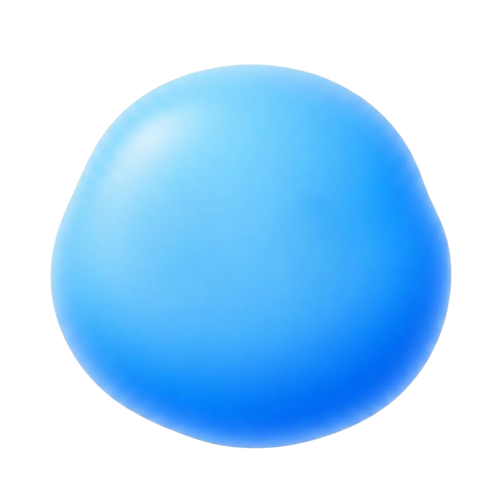
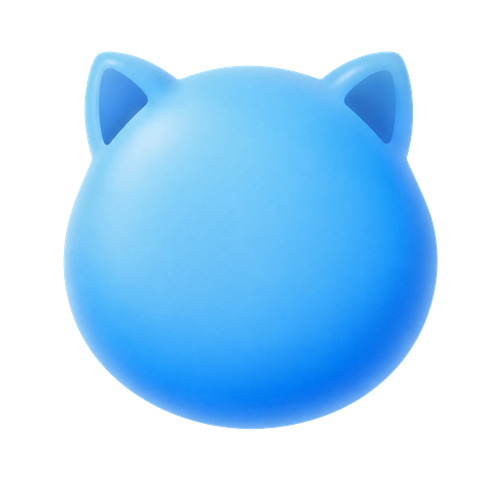
feat(web): mascota con orejas de gato + ojos re-alineados
Sustituye el blob por la nueva mascota (con orejas), recortada a fondo
transparente (fuera el fondo blanco y la sombra, que iba contra el estilo
sin-sombras). Re-mide los centros de los ojos y el monóculo para la nueva cara:
las orejas ocupan la parte de arriba, así que la cara baja y los ojos van
centrados (EYE_Y 54→55, x 33/58.5 → 37.25/62.75, simétricos) manteniendo el
tamaño y la separación de pupila de antes. Monóculo reubicado sobre el ojo derecho.

diff --git a/apps/web/src/branding/CurioLogo.tsx b/apps/web/src/branding/CurioLogo.tsx
@@ -31,10 +31,12 @@ interface CurioLogoProps {
  * squishes the blob.
  */
 
-// Eye centers as a percentage of the blob box.
-const EYE_Y = 54;
-const EYE_LEFT_X = 33;
-const EYE_RIGHT_X = 58.5;
+// Eye centers as a percentage of the blob box. Re-measured for the cat-eared blob: the ears
+// occupy the top of the box, so the face — and the eyes — sit lower and centred (the old eyeless
+// blob was asymmetric; this one is symmetric). Same pupil size and spacing as before.
+const EYE_Y = 55;
+const EYE_LEFT_X = 37.25;
+const EYE_RIGHT_X = 62.75;
 // Pupil diameter and max travel, as a fraction of `size`. The travel is a touch generous so the
 // gaze reads clearly on BOTH sides — with the logo sitting left of centre, a tiny travel made the
 // rightward look feel static (the pupils just "pointed" right without a visible sweep).
@@ -158,8 +160,8 @@ export default function CurioLogo({
   // A real monocle rings well past the eye, so it's a sizeable fraction of the face.
   const mono = size * 0.42;
   const monocleStyle = {
-    left: '61%',
-    top: '57%',
+    left: '65.25%',
+    top: '58%',
     width: `${mono}px`,
     height: `${mono}px`,
     marginLeft: `${-mono / 2}px`,
